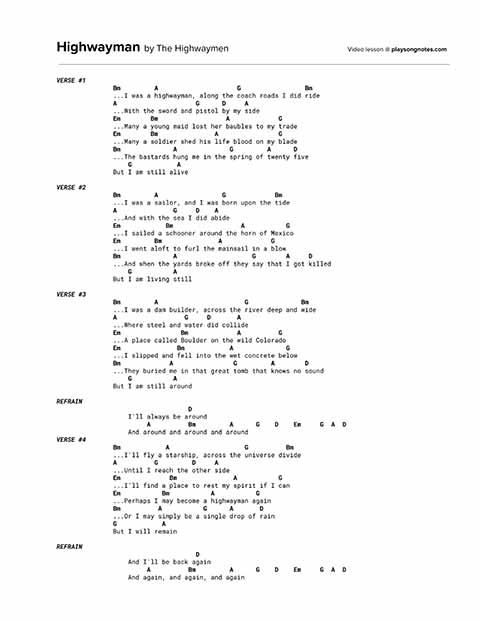
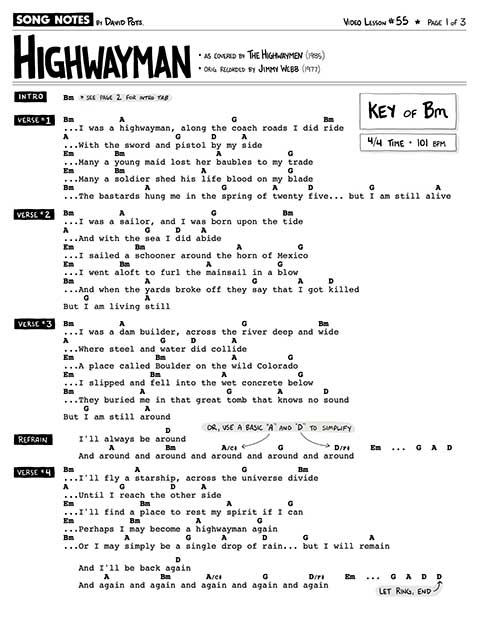
Adds highwayman 55 mn url

Changed region(s): [[0.0, 0.0, 0.9688, 0.9485], [0.7188, 0.2754, 0.9375, 0.3366], [0.7812, 0.9179, 0.9375, 0.9485]]

diff --git a/_lessons/55 [Highwaymen] Highwayman.md b/_lessons/55 [Highwaymen] Highwayman.md
@@ -6,8 +6,9 @@ song_title:  Highwayman
 artist: The Highwaymen
 year: 1985
 tags: [Full Song Lesson, Play-Along Cover, 1980s, Country, Key of D, Ukulele]
-pdf_version: copyright
+pdf_version: musicnotes
 pdf_numpages: 3
+musicnotes_url: https://www.musicnotes.com/l/55HM4
 patreon_lesson_available: true
 patreon_lesson_url: https://www.patreon.com/posts/24575218
 category: full_song
@@ -36,172 +37,3 @@ Guitar playthrough & cover:
 Ukulele lesson:
 
 <iframe width="560" height="315" src="https://www.youtube.com/embed/TfAj8Txz238?showinfo=0" frameborder="0" allowfullscreen></iframe>
-
-## Lyrics with chords
-
-    Bm         A                     G                 Bm
-    ...I was a highwayman, along the coach roads I did ride
-    A                     G      D     A
-    ...With the sword and pistol by my side
-    Em        Bm                  A             G
-    ...Many a young maid lost her baubles to my trade
-    Em        Bm               A                G
-    ...Many a soldier shed his life blood on my blade
-    Bm              A              G         A      D
-    ...The bastards hung me in the spring of twenty five
-        G            A
-    But I am still alive
-
-
-    Bm         A                 G             Bm
-    ...I was a sailor, and I was born upon the tide
-    A               G     D    A
-    ...And with the sea I did abide
-    Em            Bm                  A           G
-    ...I sailed a schooner around the horn of Mexico
-    Em         Bm               A             G
-    ...I went aloft to furl the mainsail in a blow
-    Bm              A                    G        A     D
-    ...And when the yards broke off they say that I got killed
-        G           A
-    But I am living still
-
-
-    Bm         A                       G              Bm
-    ...I was a dam builder, across the river deep and wide
-    A                  G     D       A
-    ...Where steel and water did collide
-    Em                Bm             A          G
-    ...A place called Boulder on the wild Colorado
-    Em               Bm            A              G
-    ...I slipped and fell into the wet concrete below
-    Bm             A                G         A        D
-    ...They buried me in that great tomb that knows no sound
-        G           A
-    But I am still around
-
-                        D
-        I'll always be around
-             A          Bm         A      G    D    Em     G  A  D
-        And around and around and around
-
-    Bm            A                    G          Bm
-    ...I'll fly a starship, across the universe divide
-    A          G         D     A
-    ...Until I reach the other side
-    Em             Bm               A           G
-    ...I'll find a place to rest my spirit if I can
-    Em           Bm           A           G
-    ...Perhaps I may become a highwayman again
-    Bm          A           G      A       D
-    ...Or I may simply be a single drop of rain
-    G            A
-    But I will remain
-
-                          D
-        And I'll be back again
-             A          Bm         A      G    D    Em     G  A  D
-        And again, and again, and again
-
-## Guitar notes
-
-### Chords
-
-    E –––2––––3––––0––––2––––0–––––
-    B –––3––––0––––2––––3––––0–––––
-    G –––2––––0––––2––––4––––0–––––
-    D –––0––––0––––2––––4––––2–––––
-    A ––––––––2––––0––––2––––2–––––
-    E ––––––––3––––––––––––––0–––––
-         D    G    A    Bm   Em
-
-
-### Intro riff (guitar)
-
-    E ––––––––––––––––––––––––––––
-    B ––––––––––––––––––––––––––––
-    G ––––––––––––––––––––––––––––
-    D ––––––0––2––3––4––3––2––0–––   ...repeat
-    A –––2––––––––––––––––––––––––
-    E ––––––––––––––––––––––––––––
-        (Bm)
-
-### Walk into the B-minor
-
-A few ways you can do it. For one:
-
-    E ––––––––––––|–––2––––
-    B ––––––––––––|–––3––––
-    G ––––––––––––|–––4––––
-    D ––––––––––––|–––4––––
-    A –––0––1––2––|–––2––––
-    E ––––––––––––|––––––––
-
-Another:
-
-    E ––––––––––––|–––2––––
-    B ––––––––––––|–––3––––
-    G ––––––––––––|–––4––––
-    D ––––––––––––|–––4––––
-    A ––––––0––2––|–––2––––
-    E –––3––––––––|––––––––
-
-And another still:
-
-    E ––––––––––––|–––2––––
-    B ––––––––––––|–––3––––
-    G ––––––––––––|–––4––––
-    D ––––––––––––|–––4––––
-    A ––––––0––2––|–––2––––
-    E –––2––––––––|––––––––
-
-
-### Strumming pattern
-
-If you want something very simple, do all down strums and accent each beat on the count (the 1, 2, 3, and 4). On the off beat, play a bit softer.
-
-    >       >       >       >
-    ↓   ↓   ↓   ↓   ↓   ↓   ↓   ↓
-    1   +   2   +   3   +   4   +   
-
-I prefer to mix some up strums in there, as follows:
-
-    >               >   
-    ↓       ↓   ↓ ↑ ↓       ↓   ↓ ↑
-    1   +   2   +   3   +   4   +   
-
-## Ukulele notes
-
-Obviously, this is a song you typically hear played on the guitar -- but while learning it on guitar, I happened to be going through a ukulele phase and couldn't help but figure it out on that instrument too. I figured, why not share what I'd learned! I find it's a bit simpler on the ukulele: lots of little embellishments I add while playing on the guitar aren't needed (or aren't even practically possible) on the ukulele -- so it makes for a nice cut and dry song. You only need five chords.
-
-### Ukulele chords
-
-    A ||––––0––––2––––0––––2–––––2––––
-    E ||––––2––––3––––0––––2–––––3––––
-    C ||––––2––––2––––1––––2–––––4––––
-    G ||––––2––––0––––2––––4–––––0––––
-            D    G    A    Bm    Em
-
-## Chord progressions
-
-Intro
-
-    | Bm . . . |     (repeat)
-
-Verse
-
-    | Bm . A  . . . | G . Bm . . . |
-    | A  . G  D | A . . . |
-    | Em . Bm . | A . G . . . |
-    | Em . Bm . | A . G . . . |
-    | Bm . A  . | G A D . . . |
-    | G  . A  . . . |
-
-Refrain
-
-    |  D     .  A/C#  .  |  Bm  .  A  .  |
-    |  G/F#  .  D     .  |  Em  .  .  .  |  G  A  D  .  .  .  |
-
-## Thanks for visiting!
-
-I hope this helps. Please let me know if you have any questions, etc.

diff --git a/backlog.md b/backlog.md
@@ -18,6 +18,7 @@ permalink: /backlog/
 
 Sheet music for the following songs are all available for purchase at Musicnotes.com. Each arrangement is officially licensed & legal, and also uses my latest sheet music formatting.
 
+    Apr 12 - Highwayman
     Apr 12 - Last Kiss
     Apr 11 - Badlands
     Apr 7  - A Million Dreams
@@ -72,13 +73,12 @@ Sheet music for the following songs are all available for purchase at Musicnotes
     My Fav. Picture of You      XXXXXXX
     My Old Kentucky Home        XXXXXXXX
     Sedona                      XXXXXXX
-    Sweet Child o Mine          XXXXXXXXXXXX
+    Sweet Child o Mine          XXXXXXXXXXXXX
 
 <br />
 <h3>3-6 requests:</h3>
 
     All Apologies               XXX
-    Highwayman •                XXXXXX
     LA Freeway                  XXXXX
     Let It Go                   XXX
     Light On •                  XXX
